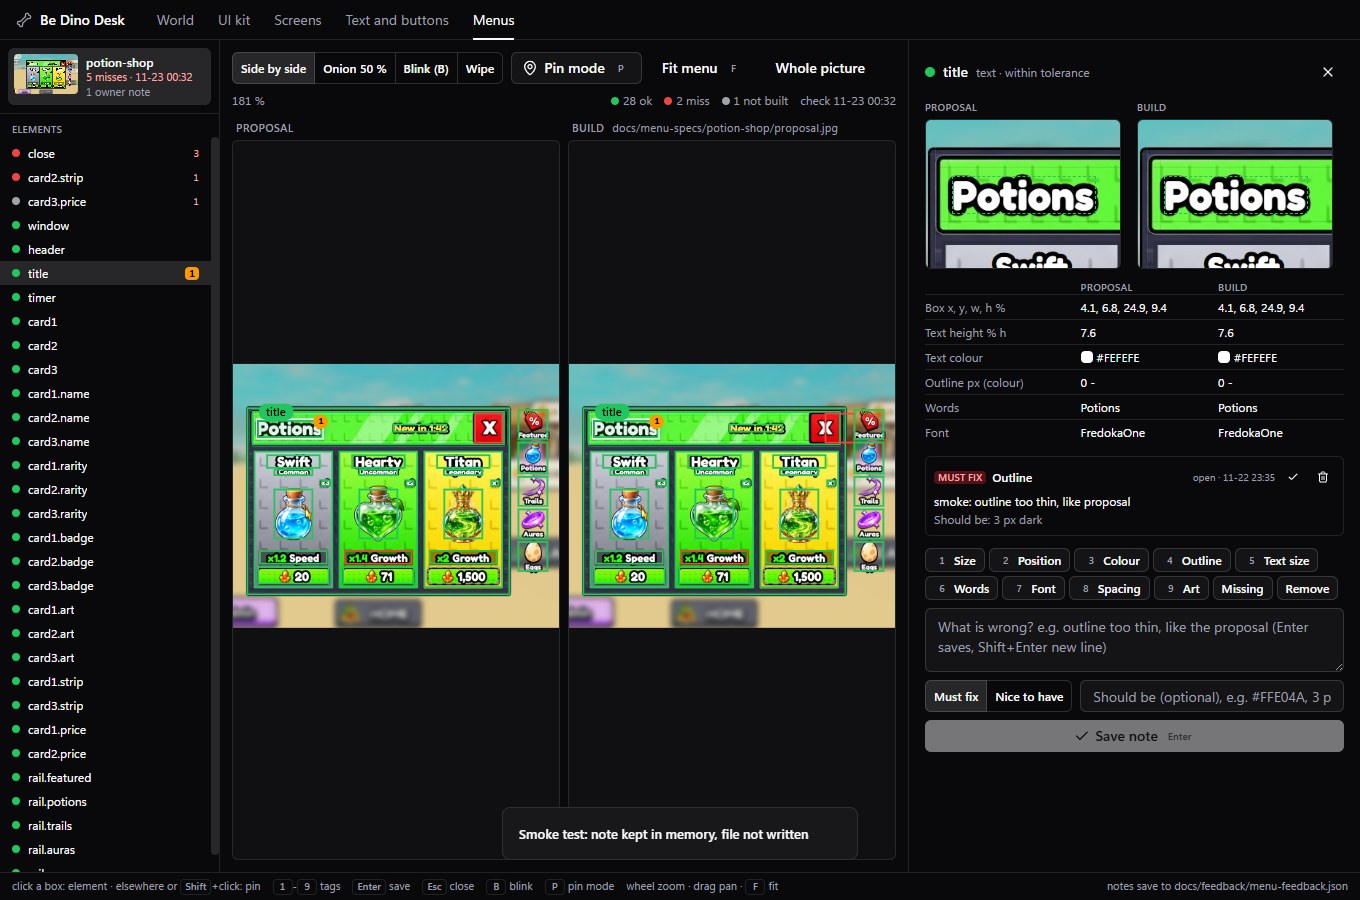
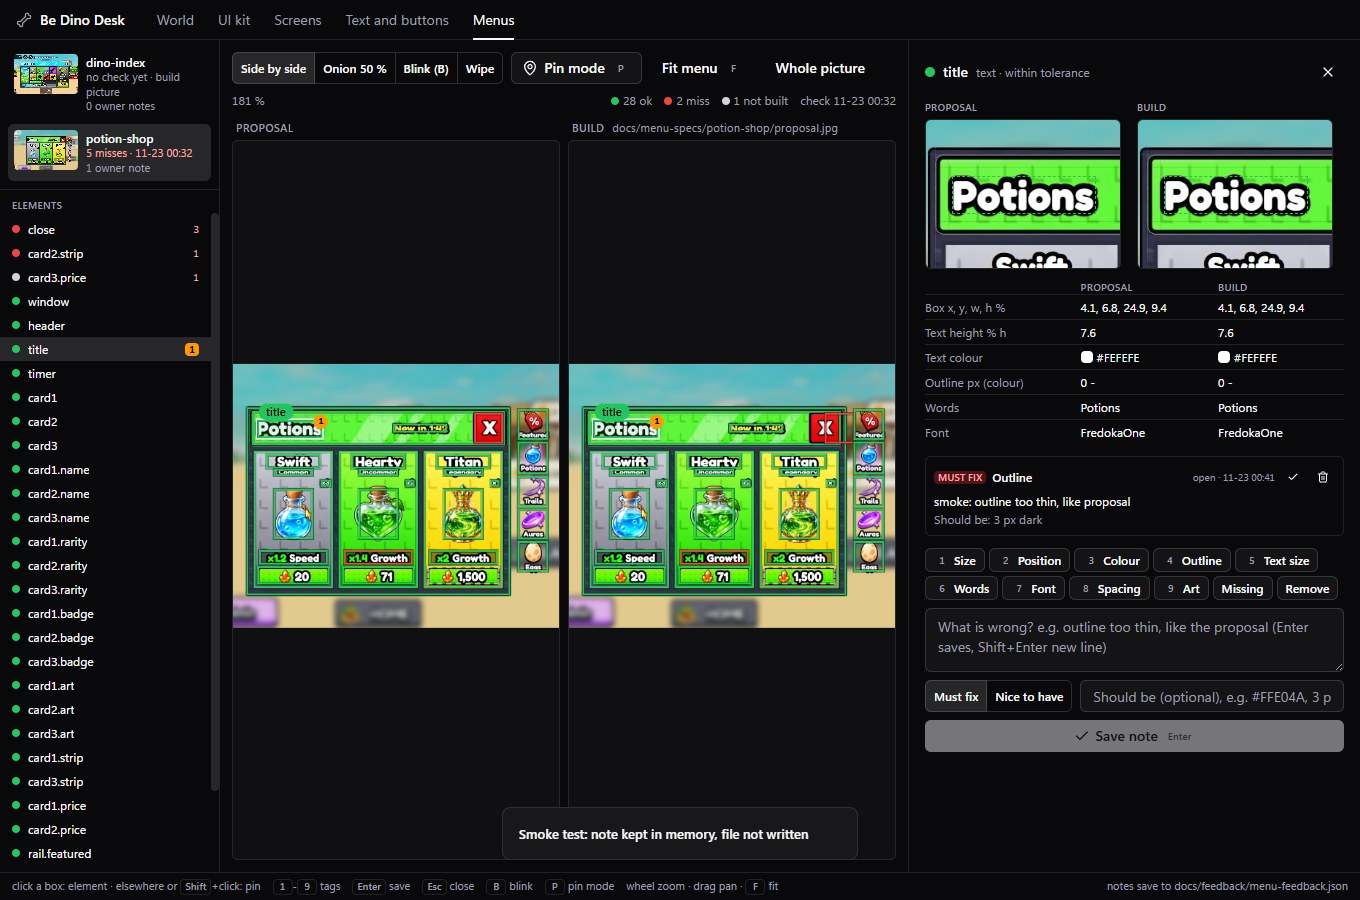
BD-1301: Menus tab shows the Dino Index too (spec cards list, sample build picture until a check exists), readable grey boxes
- Merged origin/claude/menu-spec-check again (dino-index spec, 8 cards).
- desk_catalog: card* expands over the spec's own cards list; MENU_SAMPLE_BUILDS shows a Studio picture on the BUILD side for a
  screen with no check yet (dino-index: docs/evidence/2026-11-23-index-proposal/1-*.jpg from PR #649); elements outside the window kept.
- Desk: overlays only when both windows are known; no-check labels; grey boxes lighter with a dark halo.
- Smoke: every screen renders all its boxes; the element/pin steps run on a checked screen.

diff --git a/apps/be-dino-desk/ui/src/views/Menus.tsx b/apps/be-dino-desk/ui/src/views/Menus.tsx
@@ -30,7 +30,7 @@ type View = { s: number; x: number; y: number };
 type Sel = { type: 'el'; id: string } | { type: 'pin'; id: string } | { type: 'newpin'; x: number; y: number; side: Side } | null;
 type Form = { tags: string[]; note: string; severity: Severity; should: string };
 const EMPTY: Form = { tags: [], note: '', severity: 'must', should: '' };
-const COLOR: Record<Status, string> = { pass: '#22c55e', miss: '#ef4444', missing: '#a1a1aa', unchecked: '#a1a1aa' };
+const COLOR: Record<Status, string> = { pass: '#22c55e', miss: '#ef4444', missing: '#d4d4d8', unchecked: '#d4d4d8' };
 const STATUS_WORD: Record<Status, string> = { pass: 'within tolerance', miss: 'miss', missing: 'not built', unchecked: 'not checked' };
 
 const hex = (c?: number[] | null) => (c && c.length >= 3 ? '#' + c.slice(0, 3).map((v) => Math.max(0, Math.min(255, Math.round(v))).toString(16).padStart(2, '0')).join('').toUpperCase() : null);
@@ -144,7 +144,7 @@ function Boxes({ items, sel, hover, s }: { items: Drawn[]; sel?: string; hover?:
           <div key={d.id} data-box={d.id} data-status={d.status} className="absolute"
             style={{ left: d.box[0] + '%', top: d.box[1] + '%', width: d.box[2] + '%', height: d.box[3] + '%',
               border: `${(on ? 2.5 : hv ? 2 : 1.25) / s}px ${d.ghost ? 'dashed' : 'solid'} ${COLOR[d.status]}`,
-              boxShadow: on ? `0 0 0 ${1.5 / s}px #fff, 0 0 ${10 / s}px ${COLOR[d.status]}` : undefined,
+              boxShadow: on ? `0 0 0 ${1.5 / s}px #fff, 0 0 ${10 / s}px ${COLOR[d.status]}` : `0 0 0 ${0.75 / s}px rgba(0,0,0,.55), inset 0 0 0 ${0.75 / s}px rgba(0,0,0,.55)`,   // dark halo: lines read on any art
               background: on ? COLOR[d.status] + '22' : undefined, opacity: d.ghost && !on ? 0.75 : 1 }}>
             {(on || hv) && (
               <span className="absolute left-0 whitespace-nowrap rounded-sm px-1 font-medium text-black"
@@ -318,6 +318,7 @@ export default function Menus({ menus }: { menus: MenuScreen[] }) {
   const winP = els.find((e) => e.id === 'window')?.pct || null;
   const winG = rows.window?.pct_game || null;
   const shot = last?.shot || null;
+  const canOverlay = !!shot && !!winP && !!winG;   // onion / blink / wipe need both windows to line the pictures up
   const aP = m?.proposal_size ? m.proposal_size[0] / m.proposal_size[1] : 16 / 9;
   const aG = last?.shot_size ? last.shot_size[0] / last.shot_size[1] : aP;
   const status = (id: string): Status => rows[id]?.status || 'unchecked';
@@ -391,7 +392,7 @@ export default function Menus({ menus }: { menus: MenuScreen[] }) {
       if (e.key === 'Enter' && !e.shiftKey && sel && sel.type !== 'pin') { e.preventDefault(); save(); return; }
       if (typing || e.ctrlKey || e.metaKey || e.altKey) return;
       const k = e.key.toLowerCase();
-      if (k === 'b' && shot) { if (mode !== 'blink') { setMode('blink'); setBlinkB(true); } else setBlinkB((v) => !v); e.preventDefault(); }
+      if (k === 'b' && canOverlay) { if (mode !== 'blink') { setMode('blink'); setBlinkB(true); } else setBlinkB((v) => !v); e.preventDefault(); }
       else if (k === 'p') { setPinMode((v) => !v); e.preventDefault(); }
       else if (k === 'f') { (document.querySelector('[data-fit]') as HTMLElement | null)?.click(); e.preventDefault(); }
       else if (/^[1-9]$/.test(e.key) && sel && sel.type !== 'pin') {
@@ -402,11 +403,11 @@ export default function Menus({ menus }: { menus: MenuScreen[] }) {
     };
     document.addEventListener('keydown', h);
     return () => document.removeEventListener('keydown', h);
-  }, [sel, save, mode, shot]);
+  }, [sel, save, mode, canOverlay]);
 
   // stage geometry: the proposal fitted into its pane; the build scaled and placed so its menu WINDOW lands exactly on the proposal's
   // window (same size, same place: zoom and pan stay locked on the same spot); no window in the build = same height, centred
-  const side = mode === 'side' || !shot;
+  const side = mode === 'side' || !canOverlay;
   const paneW = side ? (size.w - 8) / 2 : size.w, paneH = Math.max(0, size.h - 24);
   const hP = Math.max(50, Math.min(paneH - 16, (paneW - 16) / aP));
   const rectP: Rect = { w: hP * aP, h: hP, l: (paneW - hP * aP) / 2, t: (paneH - hP) / 2 };
@@ -480,8 +481,8 @@ export default function Menus({ menus }: { menus: MenuScreen[] }) {
                 <img src={desk.media(s.proposal)} alt="" className="h-10 w-16 shrink-0 rounded-sm object-cover" />
                 <span className="flex min-w-0 flex-col text-xs">
                   <span className="truncate font-medium">{s.screen}</span>
-                  <span className={cn('text-[11px]', s.latest ? (s.latest.misses.length ? 'text-[#fca5a5]' : 'text-ok') : 'text-muted-foreground')}>
-                    {s.latest ? `${s.latest.misses.length} misses · ${shortAt(s.latest.at)}` : 'no check yet'}</span>
+                  <span className={cn('text-[11px]', s.latest && !s.latest.sample ? (s.latest.misses.length ? 'text-[#fca5a5]' : 'text-ok') : 'text-muted-foreground')}>
+                    {s.latest && !s.latest.sample ? `${s.latest.misses.length} misses · ${shortAt(s.latest.at)}` : s.latest ? 'no check yet · build picture' : 'no check yet'}</span>
                   <span className="text-[11px] text-muted-foreground">{n} owner note{n === 1 ? '' : 's'}</span>
                 </span>
               </button>
@@ -509,9 +510,9 @@ export default function Menus({ menus }: { menus: MenuScreen[] }) {
       <div className="flex min-h-0 min-w-0">
         <div className="flex min-w-0 flex-1 flex-col gap-2 p-3">
           <div className="flex flex-wrap items-center gap-2 text-xs">
-            <ToggleGroup type="single" size="sm" variant="outline" value={shot ? mode : 'side'} onValueChange={(v) => v && setMode(v as Mode)}>
+            <ToggleGroup type="single" size="sm" variant="outline" value={canOverlay ? mode : 'side'} onValueChange={(v) => v && setMode(v as Mode)}>
               {(['side', 'onion', 'blink', 'wipe'] as Mode[]).map((md) => (
-                <ToggleGroupItem key={md} value={md} data-mode={md} disabled={!shot && md !== 'side'} className="px-2 text-xs">
+                <ToggleGroupItem key={md} value={md} data-mode={md} disabled={!canOverlay && md !== 'side'} className="px-2 text-xs">
                   {md === 'side' ? 'Side by side' : md === 'onion' ? 'Onion 50 %' : md === 'blink' ? 'Blink (B)' : 'Wipe'}
                 </ToggleGroupItem>
               ))}
@@ -526,8 +527,8 @@ export default function Menus({ menus }: { menus: MenuScreen[] }) {
             <span className="ml-auto flex items-center gap-3 text-muted-foreground">
               <span><span className="mr-1 inline-block size-2 rounded-full bg-[#22c55e]" />{counts.pass} ok</span>
               <span><span className="mr-1 inline-block size-2 rounded-full bg-[#ef4444]" />{counts.miss} miss</span>
-              <span><span className="mr-1 inline-block size-2 rounded-full bg-[#a1a1aa]" />{counts.grey} not built</span>
-              <span title={last?.report}>{last ? `check ${shortAt(last.at)}${last.step ? ' · step ' + last.step : ''}${last.self_test ? ' · self-test' : ''}` : 'no check yet: run tools/menu_spec_check.py'}</span>
+              <span><span className="mr-1 inline-block size-2 rounded-full bg-[#d4d4d8]" />{counts.grey} not built</span>
+              <span title={last?.report ?? undefined}>{last?.sample ? 'no check yet: build picture only, run tools/menu_spec_check.py for boxes' : last ? `check ${shortAt(last.at)}${last.step ? ' · step ' + last.step : ''}${last.self_test ? ' · self-test' : ''}` : 'no check yet: run tools/menu_spec_check.py'}</span>
             </span>
           </div>
           <div ref={stage} className="flex min-h-0 flex-1 gap-2" data-stage>

diff --git a/apps/be-dino-desk/ui/src/smoke.ts b/apps/be-dino-desk/ui/src/smoke.ts
@@ -60,14 +60,26 @@ async function smokeMenus(cat: Catalog, nav: Nav) {
   if (!cat.menus || !cat.menus.length) { r.error = 'no menus in the catalog'; return r; }
   nav.setTab(cat.tabs.length); await wait(1800);
   r.screens = document.querySelectorAll('[data-screen]').length;
+  // every screen's proposal and boxes render; then work on a screen that has a real check (rows), else the first
+  r.perScreen = [] as unknown[];
+  for (const s of cat.menus) {
+    (document.querySelector(`[data-screen="${s.screen}"]`) as HTMLElement | null)?.click(); await wait(700);
+    const im = document.querySelector('[data-sheet="proposal"] img') as HTMLImageElement | null;
+    (r.perScreen as unknown[]).push({ screen: s.screen, loaded: !!im && im.complete && im.naturalWidth > 0,
+      boxes: document.querySelectorAll('[data-side="proposal"] [data-box]').length, elements: s.elements.length });
+    await desk.smokeShot('menus-0-' + s.screen);
+  }
+  const menu = cat.menus.find((s) => s.latest?.rows?.length) || cat.menus[0];
+  (document.querySelector(`[data-screen="${menu.screen}"]`) as HTMLElement | null)?.click(); await wait(900);
   const prop = document.querySelector('[data-sheet="proposal"] img') as HTMLImageElement | null;
   r.proposalLoaded = !!prop && prop.complete && prop.naturalWidth > 0;
   r.boxesProposal = document.querySelectorAll('[data-side="proposal"] [data-box]').length;
   r.boxesBuild = document.querySelectorAll('[data-side="build"] [data-box]').length;
-  r.checked = !!cat.menus[0].latest;
+  r.screen = menu.screen;
+  r.checked = !!menu.latest?.rows?.length;
   await desk.smokeShot('menus-1-compare');
   // click an element ON the picture: the smallest box under the point wins (title, else the first text element, else any)
-  const want = ['title', ...cat.menus[0].elements.filter((e) => e.kind === 'text').map((e) => e.id)];
+  const want = ['title', ...menu.elements.filter((e) => e.kind === 'text').map((e) => e.id)];
   const box = want.map((id) => document.querySelector(`[data-side="proposal"] [data-box="${id}"]`)).find(Boolean) as HTMLElement | undefined;
   const vp = document.querySelector('[data-viewport="proposal"]');
   if (box && vp) {
@@ -117,7 +129,8 @@ async function smokeMenus(cat: Catalog, nav: Nav) {
     (document.querySelector('[data-mode="side"]') as HTMLElement | null)?.click(); await wait(200);
   }
   const ns = r.noteSave as { smoke: boolean; saved: boolean } | null, ps = r.pinSave as { smoke: boolean; saved: boolean } | null;
-  r.ok = (r.screens as number) >= 1 && !!r.proposalLoaded && (r.boxesProposal as number) > 0 && (!r.checked || (r.boxesBuild as number) > 0)
+  const all = (r.perScreen as { loaded: boolean; boxes: number; elements: number }[]).every((x) => x.loaded && x.boxes === x.elements);
+  r.ok = all && (r.screens as number) === cat.menus.length && !!r.proposalLoaded && (r.boxesProposal as number) > 0 && (!r.checked || (r.boxesBuild as number) > 0)
     && !!r.panel && (!r.checked || !!r.panelMeasures) &&!!r.tagOn && !!ns && ns.smoke && !ns.saved && (r.noteListed as number) >= 1
     && !!r.pinPanel && !!ps && ps.smoke && !ps.saved && (r.pinDots as number) >= 1 && (!r.checked || !!r.onion);
   return r;

diff --git a/apps/be-dino-desk/ui/src/desk.ts b/apps/be-dino-desk/ui/src/desk.ts
@@ -16,7 +16,7 @@ export type MenuEl = { id: string; kind: string; parent?: string | null; pct: Bo
 export type MenuRow = { id: string; kind: string; status: 'pass' | 'miss' | 'missing'; misses: string[]; missing?: boolean;
   pct_ref?: Box; pct_game?: Box; box_ref?: Box; box_game?: Box; ref?: Measures; game?: Measures; fill_dE?: number;
   gui?: Record<string, unknown>; words?: Record<string, unknown>; owner?: string[]; pair?: string };
-export type MenuCheck = { report: string; at: string; step: number | null; self_test: boolean; misses: string[]; shot: string | null;
+export type MenuCheck = { report: string | null; at: string; step: number | null; self_test: boolean; sample?: boolean; misses: string[]; shot: string | null;
   shot_size: [number, number] | null; owner_pins: unknown[]; rows: MenuRow[] };
 export type MenuScreen = { screen: string; spec: string; proposal: string; proposal_size: [number, number] | null; window_px: Box;
   tolerance_pct: number; steps: { name: string; elements: string[] }[]; elements: MenuEl[]; latest: MenuCheck | null;

diff --git a/tests/test_desk_catalog.py b/tests/test_desk_catalog.py
@@ -92,6 +92,36 @@ class DeskCatalogTest(unittest.TestCase):
         self.assertEqual(rows["card1"]["status"], "missing")
         self.assertEqual(len(m["history"]), 2)
 
+    def test_menus_card_list_and_sample_build(self):
+        """A spec's own "cards" list expands card*; a screen with no check shows its sample build picture (no rows)."""
+        old, old_samples = desk_catalog.ROOT, dict(desk_catalog.MENU_SAMPLE_BUILDS)
+        try:
+            with tempfile.TemporaryDirectory() as d:
+                root = Path(d)
+                spec_dir = root / "docs/menu-specs/dino-index"
+                spec_dir.mkdir(parents=True)
+                (spec_dir / "proposal.png").write_bytes(PNG)
+                spec = {"screen": "dino-index", "proposal": "docs/menu-specs/dino-index/proposal.png", "proposal_window_px": [0, 0, 1, 1],
+                        "cards": ["card1", "card8"], "elements": {"window": {"box": [0, 0, 100, 100]}, "card1": {"box": [0, 0, 10, 10]},
+                                                                  "card8": {"box": [50, 0, 10, 10]}, "card*.name": {"box": [0, 0, 50, 50]},
+                                                                  "zone.beach": {"box": [104, 10, 8, 8]}}}
+                (spec_dir / "spec.json").write_text(json.dumps(spec))
+                ev = root / "docs/evidence/2026-11-23-index-proposal"
+                ev.mkdir(parents=True)
+                (ev / "1-meadow.png").write_bytes(PNG)
+                desk_catalog.MENU_SAMPLE_BUILDS = {"dino-index": "docs/evidence/2026-11-23-index-proposal/1-*.png"}
+                cat = self.run_catalog(root)
+        finally:
+            desk_catalog.ROOT, desk_catalog.MENU_SAMPLE_BUILDS = old, old_samples
+        m = cat["menus"][0]
+        ids = [e["id"] for e in m["elements"]]
+        self.assertIn("card8.name", ids)
+        self.assertNotIn("card2.name", ids)
+        self.assertEqual(next(e for e in m["elements"] if e["id"] == "zone.beach")["pct"][0], 104.0)   # outside the window is kept
+        self.assertTrue(m["latest"]["sample"])
+        self.assertEqual(m["latest"]["shot"], "docs/evidence/2026-11-23-index-proposal/1-meadow.png")
+        self.assertEqual(m["latest"]["rows"], [])
+
     def test_image_size_reads_png_and_jpeg(self):
         with tempfile.TemporaryDirectory() as d:
             p = Path(d) / "a.png"

diff --git a/tools/desk_catalog.py b/tools/desk_catalog.py
@@ -62,6 +62,10 @@ MENU_REPORTS = [
     "build/menu-check/{screen}/**/report.json",
     "docs/evidence/*{key}*/**/report.json",
 ]
+# A screen with no check yet can still show a Studio picture of its build on the BUILD side (no boxes): screen -> glob, newest file wins.
+MENU_SAMPLE_BUILDS = {
+    "dino-index": "docs/evidence/2026-11-23-index-proposal/1-*.jpg",
+}
 
 
 def rel(p: Path) -> str:
@@ -139,7 +143,7 @@ def image_size(p: Path):
 
 def spec_elements(spec: dict, size):
     """Spec elements (card* templates expanded) with their box in % of the proposal PICTURE (what the desk draws)."""
-    cards = ("card1", "card2", "card3")
+    cards = spec.get("cards") or ("card1", "card2", "card3")   # the screen's own card list (Dino Index has 8)
     raw = {}
     for k, e in spec.get("elements", {}).items():
         if k.startswith("card*."):
@@ -234,10 +238,17 @@ def menus():
         found = {f for pat in MENU_REPORTS for f in ROOT.glob(pat.format(screen=screen, key=screen.split("-")[0]))}
         checks = [c for c in (read_report(f, screen, by_id) for f in found) if c]
         checks.sort(key=lambda c: c["at"], reverse=True)
+        sample = None
+        if not checks and screen in MENU_SAMPLE_BUILDS:
+            pics = sorted(ROOT.glob(MENU_SAMPLE_BUILDS[screen]), key=lambda f: f.stat().st_mtime, reverse=True)
+            if pics:
+                sample = {"report": None, "at": datetime.fromtimestamp(pics[0].stat().st_mtime).isoformat(timespec="seconds"),
+                          "step": None, "self_test": False, "sample": True, "misses": [], "shot": rel(pics[0]),
+                          "shot_size": image_size(pics[0]), "owner_pins": [], "rows": []}
         out.append({"screen": screen, "spec": rel(sp), "proposal": prop, "proposal_size": size,
                     "window_px": spec.get("proposal_window_px"), "tolerance_pct": spec.get("tolerance_pct", 1.5),
                     "steps": spec.get("steps", []), "elements": elems,
-                    "latest": checks[0] if checks else None,
+                    "latest": checks[0] if checks else sample,
                     "history": [{"report": c["report"], "at": c["at"], "step": c["step"], "misses": len(c["misses"])} for c in checks[:20]]})
     return out
 
